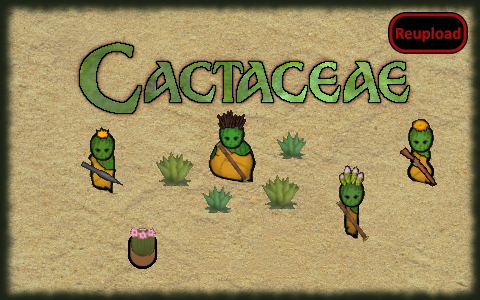
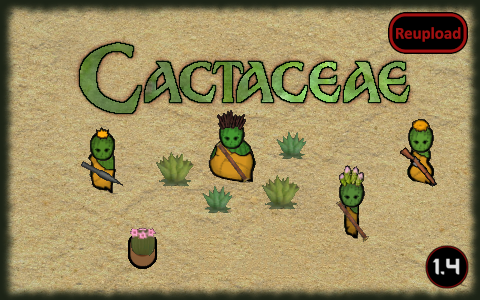
Last update, added end-of-life message

Changed region(s): [[0.875, 0.81, 1.0, 0.96]]

diff --git a/README.md b/README.md
@@ -9,7 +9,7 @@ https://steamcommunity.com/sharedfiles/filedetails/?id=1762523069
 - Added support for https://steamcommunity.com/sharedfiles/filedetails/?id=2451324814][SYR] Trait Value
 - Patch by ⎛⎝RubbelDieKatz⎠⎞ for allowing any hair, beard, tatoo in Ideology: https://steamcommunity.com/sharedfiles/filedetails/?id=2610093217]Any hair, beard and tattoo for Cactaceae
 
-![Image](https://i.imgur.com/pufA0kM.png)
+![Image](https://i.imgur.com/KFjAmff.png)
 
 	
 https://steamcommunity.com/sharedfiles/filedetails/?id=2288125657]![Image](https://i.imgur.com/kNldlMg.png)
@@ -60,10 +60,13 @@ Hivemind's original mod: https://steamcommunity.com/workshop/filedetails/?id=176
 
 -  See if the the error persists if you just have this mod and its requirements active.
 -  If not, try adding your other mods until it happens again.
--  Post your error-log using https://steamcommunity.com/workshop/filedetails/?id=818773962]HugsLib and command Ctrl+F12
+-  Post your error-log using https://steamcommunity.com/workshop/filedetails/?id=818773962]HugsLib or the standalone https://steamcommunity.com/sharedfiles/filedetails/?id=2873415404]Uploader and command Ctrl+F12
 -  For best support, please use the Discord-channel for error-reporting.
 -  Do not report errors by making a discussion-thread, I get no notification of that.
 -  If you have the solution for a problem, please post it to the GitHub repository.
+-  Use https://github.com/RimSort/RimSort/releases/latest]RimSort to sort your mods
 
 
-https://steamcommunity.com/sharedfiles/filedetails/changelog/2025692982]Last updated 2023-03-31
+
+https://steamcommunity.com/sharedfiles/filedetails/changelog/2025692982]![Image](https://img.shields.io/github/v/release/emipa606/Cactaceae?label=latest%20version&style=plastic&color=9f1111&labelColor=black)
+
